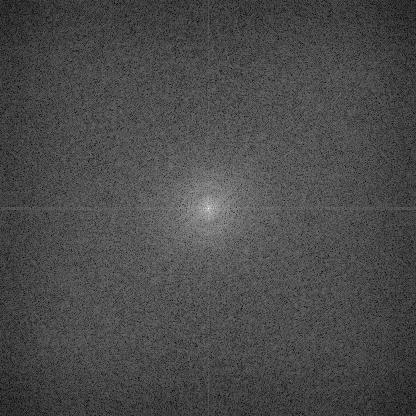
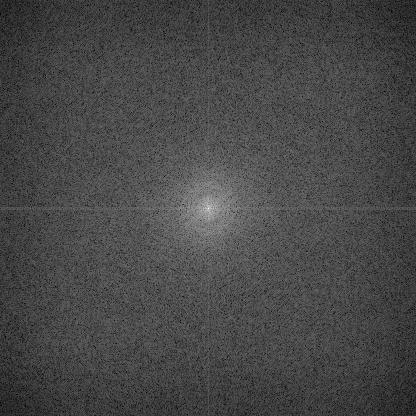
docs(proj2): add revised visuals and analysis

diff --git a/docs/proj2/index.html b/docs/proj2/index.html
@@ -204,13 +204,19 @@ output = <span class="tok-fn">np.zeros</span>((output_h, output_w))</code></pre>
         <figure><img src="assets/taj_original.jpg" alt="Original Taj Mahal before blur-then-sharpen test" /><figcaption><b>Original</b><span>Sharp source.</span></figcaption></figure>
         <figure><img src="assets/taj_blurred_then_resharpened.jpg" alt="Taj Mahal blurred and then resharpened" /><figcaption><b>Blurred, then sharpened</b><span>α = 1.5 on the blurred copy. Softer than the original.</span></figcaption></figure>
       </div>
-      <h3>Second example: a tree tunnel</h3>
-      <p class="intro">The branches and leaves in this tree tunnel give sharpening a lot to work with. At α = 1.5, they become easier to pick out, but the image also looks more contrasty. The filter emphasizes existing edges. It does not create detail that was not in the photo.</p>
+      <h3>Second example: a soft photo of the full Moon</h3>
+      <p class="intro">This full-Moon photo is slightly soft, which makes it a good test for unsharp masking. I used the same 9 × 9 Gaussian with σ = 2. The high-frequency layer is almost entirely crater rims and the bright ray streaks around young craters. Adding it back at α = 1.5 makes the maria edges and small craters much crisper without changing the overall shading of the disc.</p>
       <div class="gallery two">
-        <figure><img src="assets/forest_original.jpg" alt="Original tree tunnel" /><figcaption><b>Original</b></figcaption></figure>
-        <figure><img src="assets/forest_blurred.jpg" alt="Blurred tree tunnel" /><figcaption><b>Gaussian blur</b></figcaption></figure>
-        <figure><img src="assets/forest_high_frequency.jpg" alt="High-frequency detail in the tree tunnel" /><figcaption><b>High frequencies</b></figcaption></figure>
-        <figure><img src="assets/forest_sharpened_alpha_1.5.jpg" alt="Sharpened tree tunnel" /><figcaption><b>Sharpened</b><span>α = 1.5</span></figcaption></figure>
+        <figure><img src="assets/moon_original.jpg" alt="Original full Moon photo" /><figcaption><b>Original</b></figcaption></figure>
+        <figure><img src="assets/moon_blurred.jpg" alt="Blurred full Moon" /><figcaption><b>Gaussian blur</b><span>9 × 9, σ = 2</span></figcaption></figure>
+        <figure><img src="assets/moon_high_frequency.jpg" alt="High-frequency detail of the Moon" /><figcaption><b>High frequencies</b><span>Shifted by +0.5 for display</span></figcaption></figure>
+        <figure><img src="assets/moon_sharpened_alpha_1.5.jpg" alt="Moon sharpened with alpha 1.5" /><figcaption><b>Sharpened</b><span>α = 1.5</span></figcaption></figure>
+      </div>
+      <p class="intro">The same 340 × 340 crop of the lunar surface in each panel. At α = 1.5 the small craters and ray streaks become distinct. At α = 3 the filter starts amplifying JPEG noise and grain, so the surface looks gritty rather than more detailed.</p>
+      <div class="gallery three">
+        <figure><img src="assets/moon_zoom_original.jpg" alt="Unsharpened crop of lunar craters" /><figcaption><b>Original detail</b></figcaption></figure>
+        <figure><img src="assets/moon_zoom_alpha_1.5.jpg" alt="Lunar crater crop sharpened with alpha 1.5" /><figcaption><b>α = 1.5</b><span>Craters and rays pop</span></figcaption></figure>
+        <figure><img src="assets/moon_zoom_alpha_3.jpg" alt="Lunar crater crop sharpened with alpha 3" /><figcaption><b>α = 3</b><span>Noise gets amplified too</span></figcaption></figure>
       </div>
     </section>
 
@@ -222,11 +228,11 @@ output = <span class="tok-fn">np.zeros</span>((output_h, output_w))</code></pre>
       </div>
       <div class="table-wrap">
         <table class="parameter-table">
-          <caption>Settings and intended close-to-far reading for each hybrid</caption>
+          <caption>Settings and intended close-to-far reading for the three featured hybrids</caption>
           <thead><tr><th>Hybrid</th><th>Alignment</th><th>High σ</th><th>Low σ</th><th>High weight</th><th>Close → far</th></tr></thead>
           <tbody>
             <tr><td>Nutmeg × Derek</td><td>Eye landmarks, then crop</td><td>3</td><td>8</td><td>1.0</td><td>Cat details → Derek face</td></tr>
-            <tr><td>Owl × Moon</td><td>Matching circular crops</td><td>2</td><td>10</td><td>0.6</td><td>Owl face → lunar disc</td></tr>
+            <tr><td>Owl × Moon</td><td>Matching circular crops</td><td>2</td><td>6</td><td>0.7</td><td>Owl face → lunar disc</td></tr>
             <tr><td>Wheel × Sunflower</td><td>Centered circular crops</td><td>2</td><td>10</td><td>0.65</td><td>Wheel spokes → sunflower</td></tr>
           </tbody>
         </table>
@@ -240,11 +246,11 @@ output = <span class="tok-fn">np.zeros</span>((output_h, output_w))</code></pre>
       </div>
       <div class="gallery one"><figure><img class="small-hybrid" src="assets/derek_nutmeg_small.jpg" alt="Nutmeg and Derek hybrid reduced to 96 pixels" /><figcaption><b>96 × 96 view</b><span>Derek's face reads more clearly</span></figcaption></figure></div>
       <h3>Owl × Moon</h3>
-      <p class="intro">I wanted the owl's face to fit inside the Moon's round disc. I cropped both around that circle, then used σ = 2 for the owl's high-pass and σ = 10 for the Moon's low-pass. I weighted the owl layer at 0.6 so its feathers would not overpower the Moon at a small size. The eyes still linger a little.</p>
+      <p class="intro">I wanted the owl's face to fit inside the Moon's round disc. I cropped both around that circle, then used σ = 2 for the owl's high-pass and σ = 6 for the Moon's low-pass. My first try used σ = 10 for the Moon, but that blurred away the dark maria and left a plain gray blob that did not read as the Moon from far away. σ = 6 keeps the maria. Outside the lunar disc, I replaced the owl with its own blur, so its high-pass is close to zero there and no feathers spill into the black sky. I weighted the owl layer at 0.7 so its feathers do not overpower the Moon at a small size.</p>
       <div class="gallery four">
         <figure><img src="assets/owl_moon_high_original.jpg" alt="Original great gray owl" /><figcaption><b>Owl source</b></figcaption></figure>
         <figure><img src="assets/owl_moon_low_original.jpg" alt="Original Moon" /><figcaption><b>Moon source</b></figcaption></figure>
-        <figure><img src="assets/owl_moon_high_aligned.jpg" alt="Cropped owl" /><figcaption><b>Aligned owl</b></figcaption></figure>
+        <figure><img src="assets/owl_moon_high_aligned.jpg" alt="Cropped owl, blurred outside the Moon disc" /><figcaption><b>Aligned owl</b><span>Blurred outside the lunar disc</span></figcaption></figure>
         <figure><img src="assets/owl_moon_low_aligned.jpg" alt="Cropped Moon" /><figcaption><b>Aligned Moon</b></figcaption></figure>
       </div>
       <div class="gallery three feature-row">
@@ -252,9 +258,9 @@ output = <span class="tok-fn">np.zeros</span>((output_h, output_w))</code></pre>
         <figure><img src="assets/owl_moon_low_frequency.jpg" alt="Low-pass Moon" /><figcaption><b>Low-pass Moon</b></figcaption></figure>
         <figure><img src="assets/owl_moon_hybrid.jpg" alt="Owl and Moon hybrid" /><figcaption><b>Final hybrid</b></figcaption></figure>
       </div>
-      <div class="gallery one"><figure><img class="small-hybrid" src="assets/owl_moon_small.jpg" alt="Owl Moon hybrid reduced to 96 pixels" /><figcaption><b>Reduced to 96 × 96</b><span>The lunar disc is easier to see</span></figcaption></figure></div>
+      <div class="gallery one"><figure><img class="small-hybrid" src="assets/owl_moon_small.jpg" alt="Owl Moon hybrid reduced to 96 pixels" /><figcaption><b>Reduced to 96 × 96</b><span>The owl fades and the maria take over</span></figcaption></figure></div>
       <h3>Log-magnitude Fourier spectra of Owl × Moon</h3>
-      <p class="intro">Each panel shows log(1 + |F|), divided by its own maximum for display. Brightness across separate panels is therefore not a shared energy scale. A bright center indicates slow, large-scale structure. Energy farther out indicates small details. Cutoffs were σ = 2 on the owl (high-pass) and σ = 10 on the Moon (low-pass). I picked those by shrinking the hybrid until the disc read as a moon without the owl face taking over.</p>
+      <p class="intro">Each panel shows log(1 + |F|), divided by its own maximum for display. Brightness across separate panels is therefore not a shared energy scale. A bright center indicates slow, large-scale structure. Energy farther out indicates small details. Cutoffs were σ = 2 on the owl (high-pass) and σ = 6 on the Moon (low-pass). I picked those by shrinking the hybrid until the disc read as a moon without the owl face taking over.</p>
       <div class="gallery five spectra">
         <figure><img src="assets/owl_moon_high_original_fft.jpg" alt="Log-magnitude Fourier spectrum of aligned owl" /><figcaption><b>Owl</b><span>Log-magnitude spectrum of aligned input</span></figcaption></figure>
         <figure><img src="assets/owl_moon_low_original_fft.jpg" alt="Log-magnitude Fourier spectrum of aligned Moon" /><figcaption><b>Moon</b><span>Log-magnitude spectrum of aligned input</span></figcaption></figure>
@@ -274,6 +280,11 @@ output = <span class="tok-fn">np.zeros</span>((output_h, output_w))</code></pre>
         </div>
         <p class="note">The wheel's spokes are strong up close, but the round sunflower and its yellow petals take over in the 96 × 96 view. I used 0.65 of the wheel's high-frequency layer so it would not drown out the flower.</p>
         <div class="gallery one"><figure><img class="small-hybrid" src="assets/wheel_sunflower_small.jpg" alt="Wheel sunflower hybrid reduced to 96 pixels" /><figcaption><b>96 × 96 view</b></figcaption></figure></div>
+      </div>
+      <h3>A failed expression experiment</h3>
+      <p class="intro">I also tried to make a face change expression with viewing distance, with a frown in the high-frequency input and a smile in the low-frequency input. This one did not switch clearly. The two faces have nearly the same broad structure, while the differences around the eyes and mouth are too subtle to give the small view a distinct smile. I kept the failure here because it shows why simply aligning two related photos is not enough.</p>
+      <div class="gallery one">
+        <figure><img src="assets/expression_comparison.jpg" alt="Failed expression hybrid with frowning and smiling inputs, hybrid, and 96 and 48 pixel views" /><figcaption><b>Frown to smile attempt</b><span>The two inputs, hybrid, and reduced views are shown together. The expression remains ambiguous instead of switching cleanly with distance.</span></figcaption></figure>
       </div>
     </section>
 
@@ -343,9 +354,9 @@ output = <span class="tok-fn">np.zeros</span>((output_h, output_w))</code></pre>
       </div>
       <p class="band-note">High-frequency columns switch from apple to orange over a short distance. The L5 column changes color over a much wider strip. That is the whole point of blending per band.</p>
       <h3>Custom blends</h3>
-      <p class="intro">I made two blends beyond the oraple. Crystal Lake uses a vertical seam on a pair of seasonal lake photos. The rose uses a petal-shaped mask instead of a line.</p>
+      <p class="intro">I made two blends beyond the oraple. Crystal Lake uses a vertical seam on a pair of seasonal lake photos. Galaxy Eye uses an iris-shaped mask instead of a line.</p>
       <h4>Summer to winter at Crystal Lake</h4>
-      <p class="intro">These were taken at the same Colorado lake. I moved the winter photo up by 24 pixels to bring the far shoreline closer to the summer one. I also softened the vertical mask by 15 pixels before making its Gaussian stack. The hard cut stops the water reflection abruptly. The stack result has a gentler transition, although the sky and lake still make the change of season obvious.</p>
+      <p class="intro">These were taken at the same Colorado lake. I moved the winter photo up by 24 pixels to bring the far shoreline closer to the summer one. I also softened the vertical mask with a Gaussian of σ = 60 pixels before making its stack. The hard cut stops the water reflection abruptly. The stack result has a gentler transition, although the sky and lake still make the change of season obvious.</p>
       <div class="gallery three">
         <figure><img src="assets/seasons_image1.jpg" alt="Crystal Lake in summer" /><figcaption><b>Summer</b></figcaption></figure>
         <figure><img src="assets/seasons_image2.jpg" alt="Crystal Lake in winter" /><figcaption><b>Winter</b></figcaption></figure>
@@ -355,43 +366,52 @@ output = <span class="tok-fn">np.zeros</span>((output_h, output_w))</code></pre>
         <figure><img src="assets/seasons_hard_cut.jpg" alt="Hard cut between summer and winter" /><figcaption><b>Hard cut</b></figcaption></figure>
         <figure><img src="assets/seasons.jpg" alt="Multiresolution blend between summer and winter" /><figcaption><b>Stack blend</b></figcaption></figure>
       </div>
-      <h4>Cosmic rose with an irregular mask</h4>
-      <p class="intro">I made this mask from the rose's silhouette instead of using a circle or straight line. White selects the rose. Black selects the galaxy. The hard-cut version leaves an obvious petal edge, while the stack blend lets the red petals fade into the stars at several scales.</p>
-      <div class="gallery five">
-        <figure><img src="assets/cosmic_rose_image1.jpg" alt="Red rose on black background" /><figcaption><b>Rose</b></figcaption></figure>
-        <figure><img src="assets/cosmic_rose_image2.jpg" alt="Spiral galaxy" /><figcaption><b>Galaxy</b></figcaption></figure>
-        <figure><img src="assets/cosmic_rose_mask.jpg" alt="Rose-shaped irregular mask" /><figcaption><b>Irregular mask</b></figcaption></figure>
-        <figure><img src="assets/cosmic_rose_hard_cut.jpg" alt="Hard-cut rose and galaxy" /><figcaption><b>Hard cut</b></figcaption></figure>
-        <figure><img src="assets/cosmic_rose.jpg" alt="Multiresolution rose and galaxy blend" /><figcaption><b>Stack blend</b></figcaption></figure>
+      <h4>Galaxy Eye: an irregular iris mask</h4>
+      <p class="intro">The arms of the spiral galaxy NGC 3147 look a lot like the radial fibers of an iris, so I blended the galaxy into the iris of a close-up eye. I scaled the galaxy by 0.6 so its core sits on the pupil and its arms fill the iris. The mask is not a line or a plain circle. It is the iris disc, cut off by the curve of the upper eyelid, with the pupil and the window catchlight removed, so the eye keeps its real pupil, reflection, and lashes.</p>
+      <p class="intro">One thing went wrong on the first try: the galaxy's bright core sits right under the pupil, and the coarse mask levels are wide enough that it leaked in and turned the pupil a washed-out brown. Before building the stacks, I copied the eye's real pupil and catchlight into the galaxy input, so both images agree there and nothing can bleed in.</p>
+      <div class="gallery three">
+        <figure><img src="assets/galaxy_eye_image1.jpg" alt="Spiral galaxy scaled and centered on the pupil, with the eye's pupil copied in" /><figcaption><b>Galaxy input</b><span>Scaled 0.6, core on the pupil</span></figcaption></figure>
+        <figure><img src="assets/galaxy_eye_image2.jpg" alt="Close-up of a blue eye" /><figcaption><b>Eye input</b></figcaption></figure>
+        <figure><img src="assets/galaxy_eye_mask.jpg" alt="Iris-shaped irregular mask with pupil and catchlight removed" /><figcaption><b>Irregular mask</b><span>White selects the galaxy</span></figcaption></figure>
       </div>
-      <p class="intro">These are the two inputs after applying the unblurred mask. They make it easier to see what each source contributes before the band-by-band combination.</p>
       <div class="gallery two">
-        <figure><img src="assets/cosmic_rose_masked_image1.jpg" alt="Masked rose input" /><figcaption><b>Masked rose</b></figcaption></figure>
-        <figure><img src="assets/cosmic_rose_masked_image2.jpg" alt="Masked galaxy input" /><figcaption><b>Masked galaxy</b></figcaption></figure>
+        <figure><img src="assets/galaxy_eye_hard_cut.jpg" alt="Hard cut of the galaxy into the iris" /><figcaption><b>Hard cut</b><span>Mask applied with no blending</span></figcaption></figure>
+        <figure><img src="assets/galaxy_eye.jpg" alt="Multiresolution blend of a spiral galaxy into an iris" /><figcaption><b>Stack blend</b><span>6 levels, σ = 2 doubling per level</span></figcaption></figure>
       </div>
-      <h4>Inside the cosmic rose blend</h4>
-      <p class="intro">I used the same fine-to-coarse layout as Figure 3.42 for this irregular mask. The masked inputs show what each photo contributes before the band-by-band combination, similar to Burt and Adelson Figure 10.</p>
+      <p class="intro">At full size the two look similar, so here is the same 260 × 260 crop of the eyelid and the left edge of the iris.</p>
+      <div class="gallery two">
+        <figure><img src="assets/galaxy_eye_zoom_hard_cut.jpg" alt="Zoomed hard cut showing a sharp eyelid line and a chopped iris edge" /><figcaption><b>Hard cut, zoomed</b><span>Sharp line under the eyelid, and the galaxy stops abruptly at the white of the eye</span></figcaption></figure>
+        <figure><img src="assets/galaxy_eye_zoom_blend.jpg" alt="Zoomed stack blend with a soft iris edge and dark limbal ring" /><figcaption><b>Stack blend, zoomed</b><span>The lid shadow and the dark ring around the real iris carry over</span></figcaption></figure>
+      </div>
+      <p class="figure-summary">In the hard cut, the galaxy is pasted on top of the eye. In the stack blend, the eye's broad shading (the eyelid shadow and the dark ring at the iris edge) comes from the coarse levels, while the galaxy supplies the fine texture. That is why it reads as an iris instead of a sticker.</p>
+      <p class="intro">These are the two inputs after applying the unblurred mask. They show what each photo contributes before the band-by-band combination, like Burt and Adelson's Figure 10.</p>
+      <div class="gallery two">
+        <figure><img src="assets/galaxy_eye_masked_image1.jpg" alt="Masked galaxy input" /><figcaption><b>Masked galaxy</b></figcaption></figure>
+        <figure><img src="assets/galaxy_eye_masked_image2.jpg" alt="Masked eye input" /><figcaption><b>Masked eye</b></figcaption></figure>
+      </div>
+      <h4>Inside the Galaxy Eye blend</h4>
+      <p class="intro">Same fine-to-coarse layout as Figure 3.42. In the galaxy row, fine bands stay inside the iris while L5 spreads well past it. In the sum row, L0 carries the star-like detail and the lashes, and L5 carries the brown core glow and the blue sclera.</p>
       <div class="band-chart">
         <p class="corner">Fine → coarse</p>
         <p class="col-h">L0</p>
         <p class="col-h">L2</p>
         <p class="col-h">L4</p>
         <p class="col-h">L5</p>
-        <p class="row-h">Masked Rose</p>
-        <figure><img src="assets/cosmic_rose_process_a.jpg" alt="Masked Rose fine band L0" /><figcaption>(a)</figcaption></figure>
-        <figure><img src="assets/cosmic_rose_process_b.jpg" alt="Masked Rose band L2" /><figcaption>(b)</figcaption></figure>
-        <figure><img src="assets/cosmic_rose_process_c.jpg" alt="Masked Rose band L4" /><figcaption>(c)</figcaption></figure>
-        <figure><img src="assets/cosmic_rose_process_d.jpg" alt="Masked Rose coarse residual L5" /><figcaption>(d)</figcaption></figure>
         <p class="row-h">Masked Galaxy</p>
-        <figure><img src="assets/cosmic_rose_process_e.jpg" alt="Masked Galaxy fine band L0" /><figcaption>(e)</figcaption></figure>
-        <figure><img src="assets/cosmic_rose_process_f.jpg" alt="Masked Galaxy band L2" /><figcaption>(f)</figcaption></figure>
-        <figure><img src="assets/cosmic_rose_process_g.jpg" alt="Masked Galaxy band L4" /><figcaption>(g)</figcaption></figure>
-        <figure><img src="assets/cosmic_rose_process_h.jpg" alt="Masked Galaxy coarse residual L5" /><figcaption>(h)</figcaption></figure>
+        <figure><img src="assets/galaxy_eye_process_a.jpg" alt="Masked Galaxy fine band L0" /><figcaption>(a)</figcaption></figure>
+        <figure><img src="assets/galaxy_eye_process_b.jpg" alt="Masked Galaxy band L2" /><figcaption>(b)</figcaption></figure>
+        <figure><img src="assets/galaxy_eye_process_c.jpg" alt="Masked Galaxy band L4" /><figcaption>(c)</figcaption></figure>
+        <figure><img src="assets/galaxy_eye_process_d.jpg" alt="Masked Galaxy coarse residual L5" /><figcaption>(d)</figcaption></figure>
+        <p class="row-h">Masked Eye</p>
+        <figure><img src="assets/galaxy_eye_process_e.jpg" alt="Masked Eye fine band L0" /><figcaption>(e)</figcaption></figure>
+        <figure><img src="assets/galaxy_eye_process_f.jpg" alt="Masked Eye band L2" /><figcaption>(f)</figcaption></figure>
+        <figure><img src="assets/galaxy_eye_process_g.jpg" alt="Masked Eye band L4" /><figcaption>(g)</figcaption></figure>
+        <figure><img src="assets/galaxy_eye_process_h.jpg" alt="Masked Eye coarse residual L5" /><figcaption>(h)</figcaption></figure>
         <p class="row-h">Sum</p>
-        <figure><img src="assets/cosmic_rose_process_i.jpg" alt="Sum of masked Rose and Galaxy fine bands L0" /><figcaption>(i)</figcaption></figure>
-        <figure><img src="assets/cosmic_rose_process_j.jpg" alt="Sum of masked Rose and Galaxy bands L2" /><figcaption>(j)</figcaption></figure>
-        <figure><img src="assets/cosmic_rose_process_k.jpg" alt="Sum of masked Rose and Galaxy bands L4" /><figcaption>(k)</figcaption></figure>
-        <figure><img src="assets/cosmic_rose_process_l.jpg" alt="Sum of masked Rose and Galaxy coarse residuals L5" /><figcaption>(l)</figcaption></figure>
+        <figure><img src="assets/galaxy_eye_process_i.jpg" alt="Sum of masked Galaxy and Eye fine band L0" /><figcaption>(i)</figcaption></figure>
+        <figure><img src="assets/galaxy_eye_process_j.jpg" alt="Sum of masked Galaxy and Eye band L2" /><figcaption>(j)</figcaption></figure>
+        <figure><img src="assets/galaxy_eye_process_k.jpg" alt="Sum of masked Galaxy and Eye band L4" /><figcaption>(k)</figcaption></figure>
+        <figure><img src="assets/galaxy_eye_process_l.jpg" alt="Sum of masked Galaxy and Eye coarse residual L5" /><figcaption>(l)</figcaption></figure>
       </div>
     </section>
 
@@ -401,6 +421,6 @@ output = <span class="tok-fn">np.zeros</span>((output_h, output_w))</code></pre>
     </section>
 
   </main>
-  <footer class="photo-credits">Adapted photos: <a href="https://commons.wikimedia.org/wiki/File:Ferris_Wheel_at_night_(2690872267).jpg">Ferris wheel by Mack Male</a> and <a href="https://commons.wikimedia.org/wiki/File:Crystal_Lake_Reflection_(7726191492).jpg">summer</a>/<a href="https://commons.wikimedia.org/wiki/File:Crystal_Lake_in_the_Winter_(8341261220).jpg">winter Crystal Lake by Alan Stark</a> (<a href="https://creativecommons.org/licenses/by-sa/2.0/">CC BY-SA 2.0</a>), <a href="https://commons.wikimedia.org/wiki/File:Sunflower_head.jpg">sunflower by Brandon Weeks</a> (<a href="https://creativecommons.org/licenses/by/3.0/">CC BY 3.0</a>), <a href="https://commons.wikimedia.org/wiki/File:Red_rose_with_black_background_II.jpg">rose by Laitche</a> (<a href="https://creativecommons.org/licenses/by-sa/4.0/">CC BY-SA 4.0</a>), and <a href="https://commons.wikimedia.org/wiki/File:Tree_Tunnel_(51536815526).jpg">tree tunnel by John Brighenti</a> (<a href="https://creativecommons.org/licenses/by/2.0/">CC BY 2.0</a>).</footer>
+  <footer class="photo-credits">Adapted photos: <a href="https://commons.wikimedia.org/wiki/File:Ferris_Wheel_at_night_(2690872267).jpg">Ferris wheel by Mack Male</a> and <a href="https://commons.wikimedia.org/wiki/File:Crystal_Lake_Reflection_(7726191492).jpg">summer</a>/<a href="https://commons.wikimedia.org/wiki/File:Crystal_Lake_in_the_Winter_(8341261220).jpg">winter Crystal Lake by Alan Stark</a> (<a href="https://creativecommons.org/licenses/by-sa/2.0/">CC BY-SA 2.0</a>), <a href="https://commons.wikimedia.org/wiki/File:Sunflower_head.jpg">sunflower by Brandon Weeks</a> (<a href="https://creativecommons.org/licenses/by/3.0/">CC BY 3.0</a>), and <a href="https://commons.wikimedia.org/wiki/File:Iris_-_right_eye_of_a_girl.jpg">eye by Laitr Keiows</a> (<a href="https://creativecommons.org/licenses/by-sa/3.0/">CC BY-SA 3.0</a>).</footer>
 </body>
 </html>
